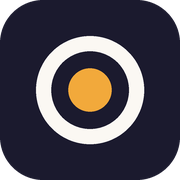
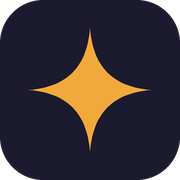
Rename studio from Lubb to Yasalam (ياسلام) with a sparkle mark
Claude-Session: https://claude.ai/code/session_01VuSMiQ6w3n81gthkzLmyio

Changed region(s): [[0.1667, 0.1667, 0.8333, 0.8333]]

diff --git a/index.html b/index.html
@@ -3,13 +3,13 @@
 <head>
 <meta charset="utf-8">
 <meta name="viewport" content="width=device-width, initial-scale=1, viewport-fit=cover">
-<title>لُب · Lubb — تطبيقات للعقل والقلب</title>
-<meta name="description" content="لُب: تطبيقات بسيطة للعقل والقلب من المدينة المنورة — نبيه، Pulse Nexus، رفق. Lubb: simple apps for the mind and heart.">
+<title>ياسلام · Yasalam — تطبيقات للعقل والقلب</title>
+<meta name="description" content="ياسلام: تطبيقات بسيطة للعقل والقلب من المدينة المنورة — نبيه، Pulse Nexus، رفق. Yasalam: simple apps for the mind and heart.">
 <meta name="theme-color" content="#FBF8F3" media="(prefers-color-scheme: light)">
 <meta name="theme-color" content="#12111C" media="(prefers-color-scheme: dark)">
-<meta property="og:title" content="لُب · Lubb — تطبيقات للعقل والقلب">
+<meta property="og:title" content="ياسلام · Yasalam — تطبيقات للعقل والقلب">
 <meta property="og:description" content="نبيه · Pulse Nexus · رفق — Apps for the mind and heart">
-<meta property="og:image" content="https://bukhaa0s-cyber.github.io/img/lubb-512.png">
+<meta property="og:image" content="https://bukhaa0s-cyber.github.io/img/yasalam-512.png">
 <meta property="og:type" content="website">
 <link rel="icon" href="img/favicon.png">
 <link rel="apple-touch-icon" href="img/apple-touch-icon.png">
@@ -52,7 +52,7 @@ header.top .wrap{display:flex;align-items:center;justify-content:space-between;h
 .hero::before{content:'';position:absolute;inset:auto 50% auto auto;top:-260px;width:620px;height:620px;transform:translateX(50%);border-radius:50%;
   background:radial-gradient(circle,rgba(242,169,59,.28),rgba(242,169,59,0) 65%);z-index:-1}
 .mark{width:132px;height:132px;margin:0 auto 18px;filter:drop-shadow(0 18px 30px rgba(242,169,59,.28))}
-.mark .ring{transform-origin:50% 50%;animation:breathe 5s ease-in-out infinite}
+.mark .ring{transform-origin:50% 50%;animation:breathe 4s ease-in-out infinite}
 @keyframes breathe{0%,100%{transform:scale(1)}50%{transform:scale(1.04)}}
 .word{font-size:clamp(4em,13vw,6.4em);line-height:1.05;margin:0;font-weight:800;letter-spacing:-.01em}
 .word .en{font-family:'IBM Plex Sans Arabic',sans-serif;letter-spacing:.02em}
@@ -120,8 +120,8 @@ footer .wrap{display:flex;flex-wrap:wrap;gap:10px 20px;justify-content:space-bet
 <body>
 <header class="top"><div class="wrap">
   <a class="brand kufi" href="./">
-    <svg viewBox="0 0 64 64" aria-hidden="true"><rect width="64" height="64" rx="15" fill="#1B1A2E"/><circle cx="32" cy="32" r="19" fill="none" stroke="#FBF8F3" stroke-width="5.5"/><circle cx="32" cy="32" r="7.5" fill="#F2A93B"/></svg>
-    <span class="ar">لُب</span><span class="en">Lubb</span>
+    <svg viewBox="0 0 32 32" aria-hidden="true"><rect width="32" height="32" rx="7.5" fill="#1B1A2E"/><path transform="translate(5.5 5.5) scale(.66)" d="M16 2.5C17.1 10.6 21.4 14.9 29.5 16C21.4 17.1 17.1 21.4 16 29.5C14.9 21.4 10.6 17.1 2.5 16C10.6 14.9 14.9 10.6 16 2.5Z" fill="#F2A93B"/></svg>
+    <span class="ar">ياسلام</span><span class="en">Yasalam</span>
   </a>
   <nav class="nav">
     <a href="#apps"><span class="ar">التطبيقات</span><span class="en">Apps</span></a>
@@ -133,18 +133,18 @@ footer .wrap{display:flex;flex-wrap:wrap;gap:10px 20px;justify-content:space-bet
 <main>
 <section class="hero"><div class="wrap">
   <svg class="mark" viewBox="0 0 120 120" aria-hidden="true">
-    <circle class="ring" cx="60" cy="60" r="40" fill="none" stroke="currentColor" stroke-width="10" style="color:var(--ink)"/>
-    <circle cx="60" cy="60" r="15" fill="#F2A93B"/>
+    <g transform="translate(8 14) scale(2.9)"><path class="ring" d="M16 2.5C17.1 10.6 21.4 14.9 29.5 16C21.4 17.1 17.1 21.4 16 29.5C14.9 21.4 10.6 17.1 2.5 16C10.6 14.9 14.9 10.6 16 2.5Z" fill="#F2A93B"/></g>
+    <path transform="translate(86 6) scale(.9)" d="M16 2.5C17.1 10.6 21.4 14.9 29.5 16C21.4 17.1 17.1 21.4 16 29.5C14.9 21.4 10.6 17.1 2.5 16C10.6 14.9 14.9 10.6 16 2.5Z" fill="currentColor" style="color:var(--ink)"/>
   </svg>
-  <h1 class="word kufi"><span class="ar">لُب</span><span class="en">Lubb</span></h1>
+  <h1 class="word kufi"><span class="ar">ياسلام</span><span class="en">Yasalam</span></h1>
   <p class="tagline"><span class="ar">تطبيقات <b>للعقل</b> و<b>القلب</b></span><span class="en">Apps for the <b>mind</b> and the <b>heart</b></span></p>
   <p class="sub"><span class="ar">من المدينة المنورة. كل تطبيق بدأ باحتياج حقيقي في البيت، ثم كبر ليصل لكل بيت.</span><span class="en">Made in Madinah. Every app began with a real need at home, then grew to reach every home.</span></p>
 
   <div class="meaning">
-    <div class="glyph kufi">لُب</div>
+    <div class="glyph"><svg width="34" height="34" viewBox="0 0 32 32" aria-hidden="true"><path d="M16 2.5C17.1 10.6 21.4 14.9 29.5 16C21.4 17.1 17.1 21.4 16 29.5C14.9 21.4 10.6 17.1 2.5 16C10.6 14.9 14.9 10.6 16 2.5Z" fill="#F2A93B"/></svg></div>
     <div>
-      <h2><span class="ar">ليش «لُب»؟</span><span class="en">Why “Lubb”?</span></h2>
-      <p><span class="ar">اللُّب في العربية هو <q>العقل</q>، ومنه «أولو الألباب». وهو أيضاً <q>قلب الشيء وجوهره</q>. وهذا ما نصنعه: تطبيقات تشحذ العقل، وأخرى تعتني بمن نحب.</span><span class="en">In Arabic, <q>lubb</q> means the mind, as in “people of understanding”. It also means the heart and core of a thing. That is what we make: apps that sharpen the mind, and apps that care for the people we love.</span></p>
+      <h2><span class="ar">ليش «ياسلام»؟</span><span class="en">Why “Yasalam”?</span></h2>
+      <p><span class="ar">«ياسلام» كلمة تخرج منّا عفوياً حين يدهشنا شيء جميل. ونقصد بها <q>السلام</q>، اسماً من أسماء الله الحسنى. وهذا ما نتمناه لكل تطبيق نصنعه: أن يريحك ويسعدك، فتقول: ياسلام.</span><span class="en">“Ya Salam” is what we say when something beautiful delights us. To us it also calls on <q>As-Salam</q>, the Source of Peace, one of the beautiful names of God. That is what we hope every app we make does: bring you ease and joy, so you say Ya Salam.</span></p>
     </div>
   </div>
 </div></section>
@@ -211,13 +211,13 @@ footer .wrap{display:flex;flex-wrap:wrap;gap:10px 20px;justify-content:space-bet
 <section id="contact" style="padding-top:8px"><div class="wrap">
   <div class="contact">
     <div><h2><span class="ar">نسعد بسماعك</span><span class="en">We’d love to hear from you</span></h2><p><span class="ar">فكرة، ملاحظة، أو مشكلة في أحد التطبيقات؟ راسلنا.</span><span class="en">An idea, feedback or a problem with one of the apps? Write to us.</span></p></div>
-    <a href="mailto:bukha0s@icloud.com?subject=Lubb">✉ <span dir="ltr">bukha0s@icloud.com</span></a>
+    <a href="mailto:bukha0s@icloud.com?subject=Yasalam">✉ <span dir="ltr">bukha0s@icloud.com</span></a>
   </div>
 </div></section>
 </main>
 
 <footer><div class="wrap">
-  <span>© 2026 <span class="ar">لُب · عبدالعزيز بخاري</span><span class="en">Lubb · Abdulaziz Bukhari</span></span>
+  <span>© 2026 <span class="ar">ياسلام · عبدالعزيز بخاري</span><span class="en">Yasalam · Abdulaziz Bukhari</span></span>
   <span><span class="ar">صُنع في المدينة المنورة</span><span class="en">Made in Madinah</span></span>
 </div></footer>
 </body>

diff --git a/lang.js b/lang.js
@@ -1,13 +1,13 @@
 // Arabic or English: ?lang= wins, then the visitor's last choice, then the browser language.
 (function () {
   var q = new URLSearchParams(location.search).get('lang');
-  var saved = null; try { saved = localStorage.getItem('lubb-lang'); } catch (e) {}
+  var saved = null; try { saved = localStorage.getItem('yasalam-lang'); } catch (e) {}
   var nav = (navigator.language || 'en').toLowerCase();
   var l = q === 'ar' || q === 'en' ? q : saved || (/^(ar|ur|fa)/.test(nav) ? 'ar' : 'en');
   function apply(v) {
     var h = document.documentElement;
     h.setAttribute('data-l', v); h.lang = v; h.dir = v === 'ar' ? 'rtl' : 'ltr';
-    try { localStorage.setItem('lubb-lang', v); } catch (e) {}
+    try { localStorage.setItem('yasalam-lang', v); } catch (e) {}
   }
   apply(l);
   window.toggleLang = function () { apply(document.documentElement.getAttribute('data-l') === 'ar' ? 'en' : 'ar'); };
